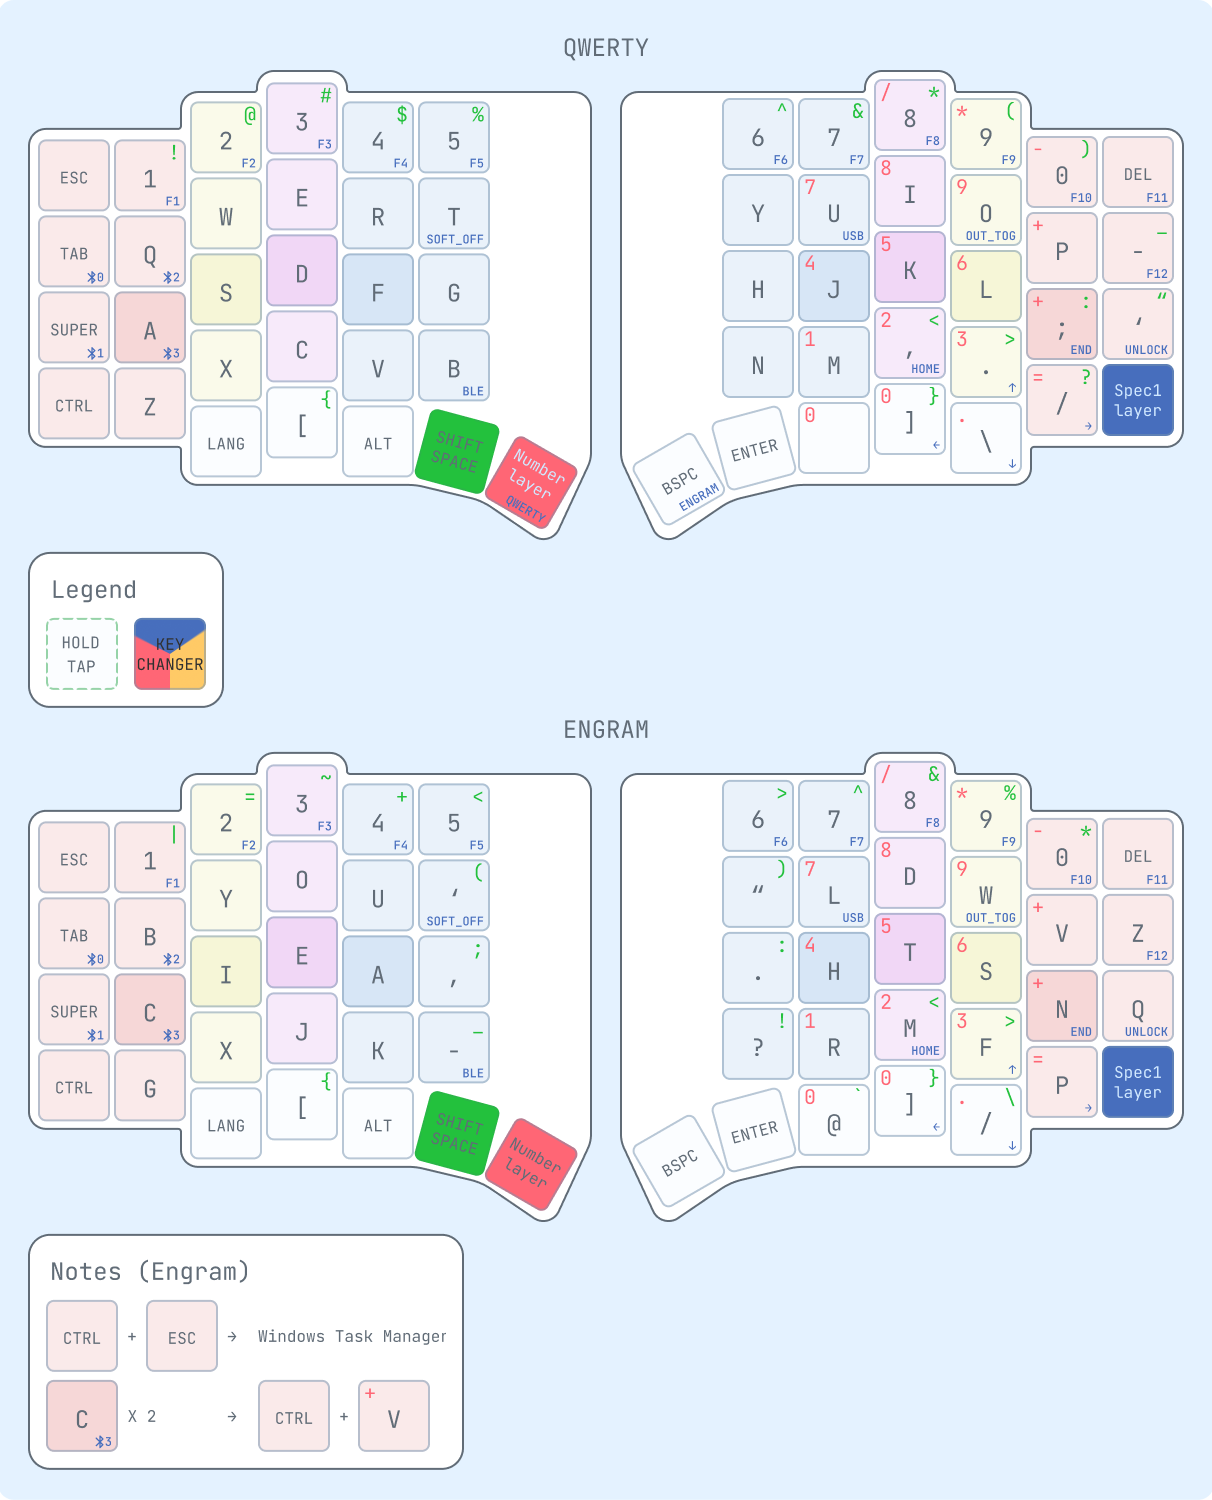
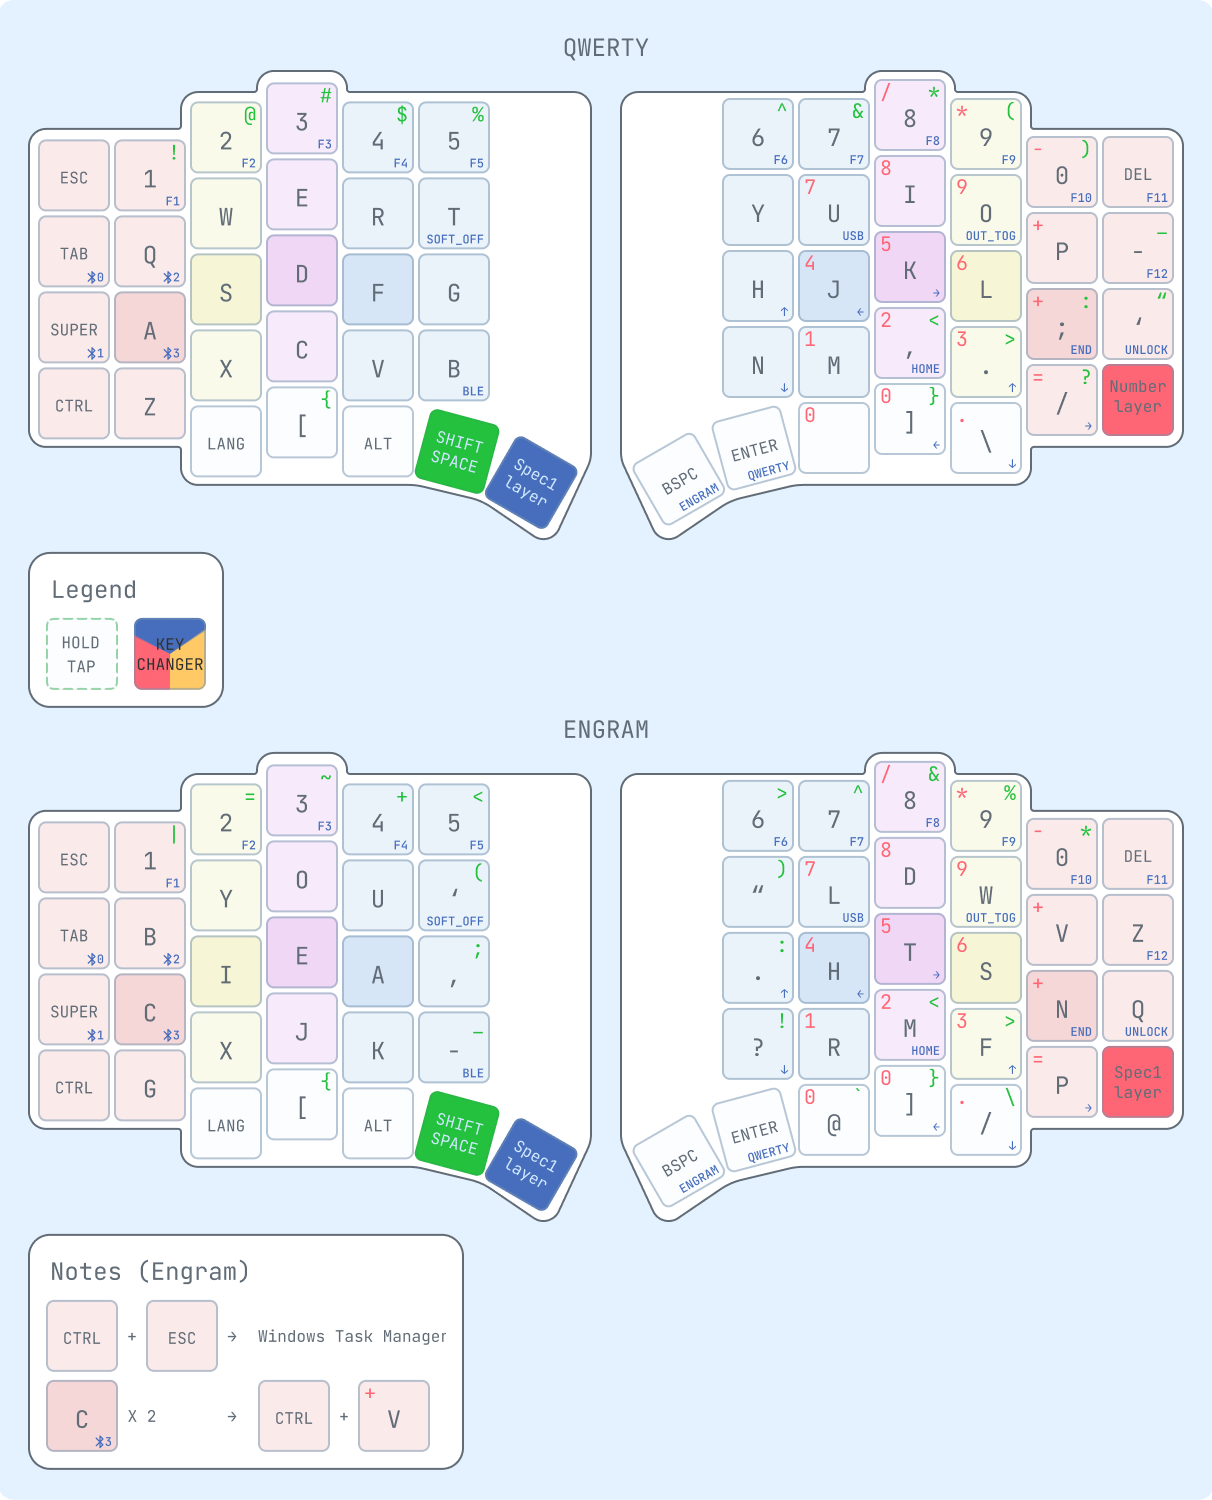
+ Moving keys around to have arrows easily accessible.

diff --git a/README.md b/README.md
@@ -1,1 +1,1 @@
-<img src="img/Full_Layout.png" width="1000">
+<img src="img/Full_Layout.png?" width="1000">
